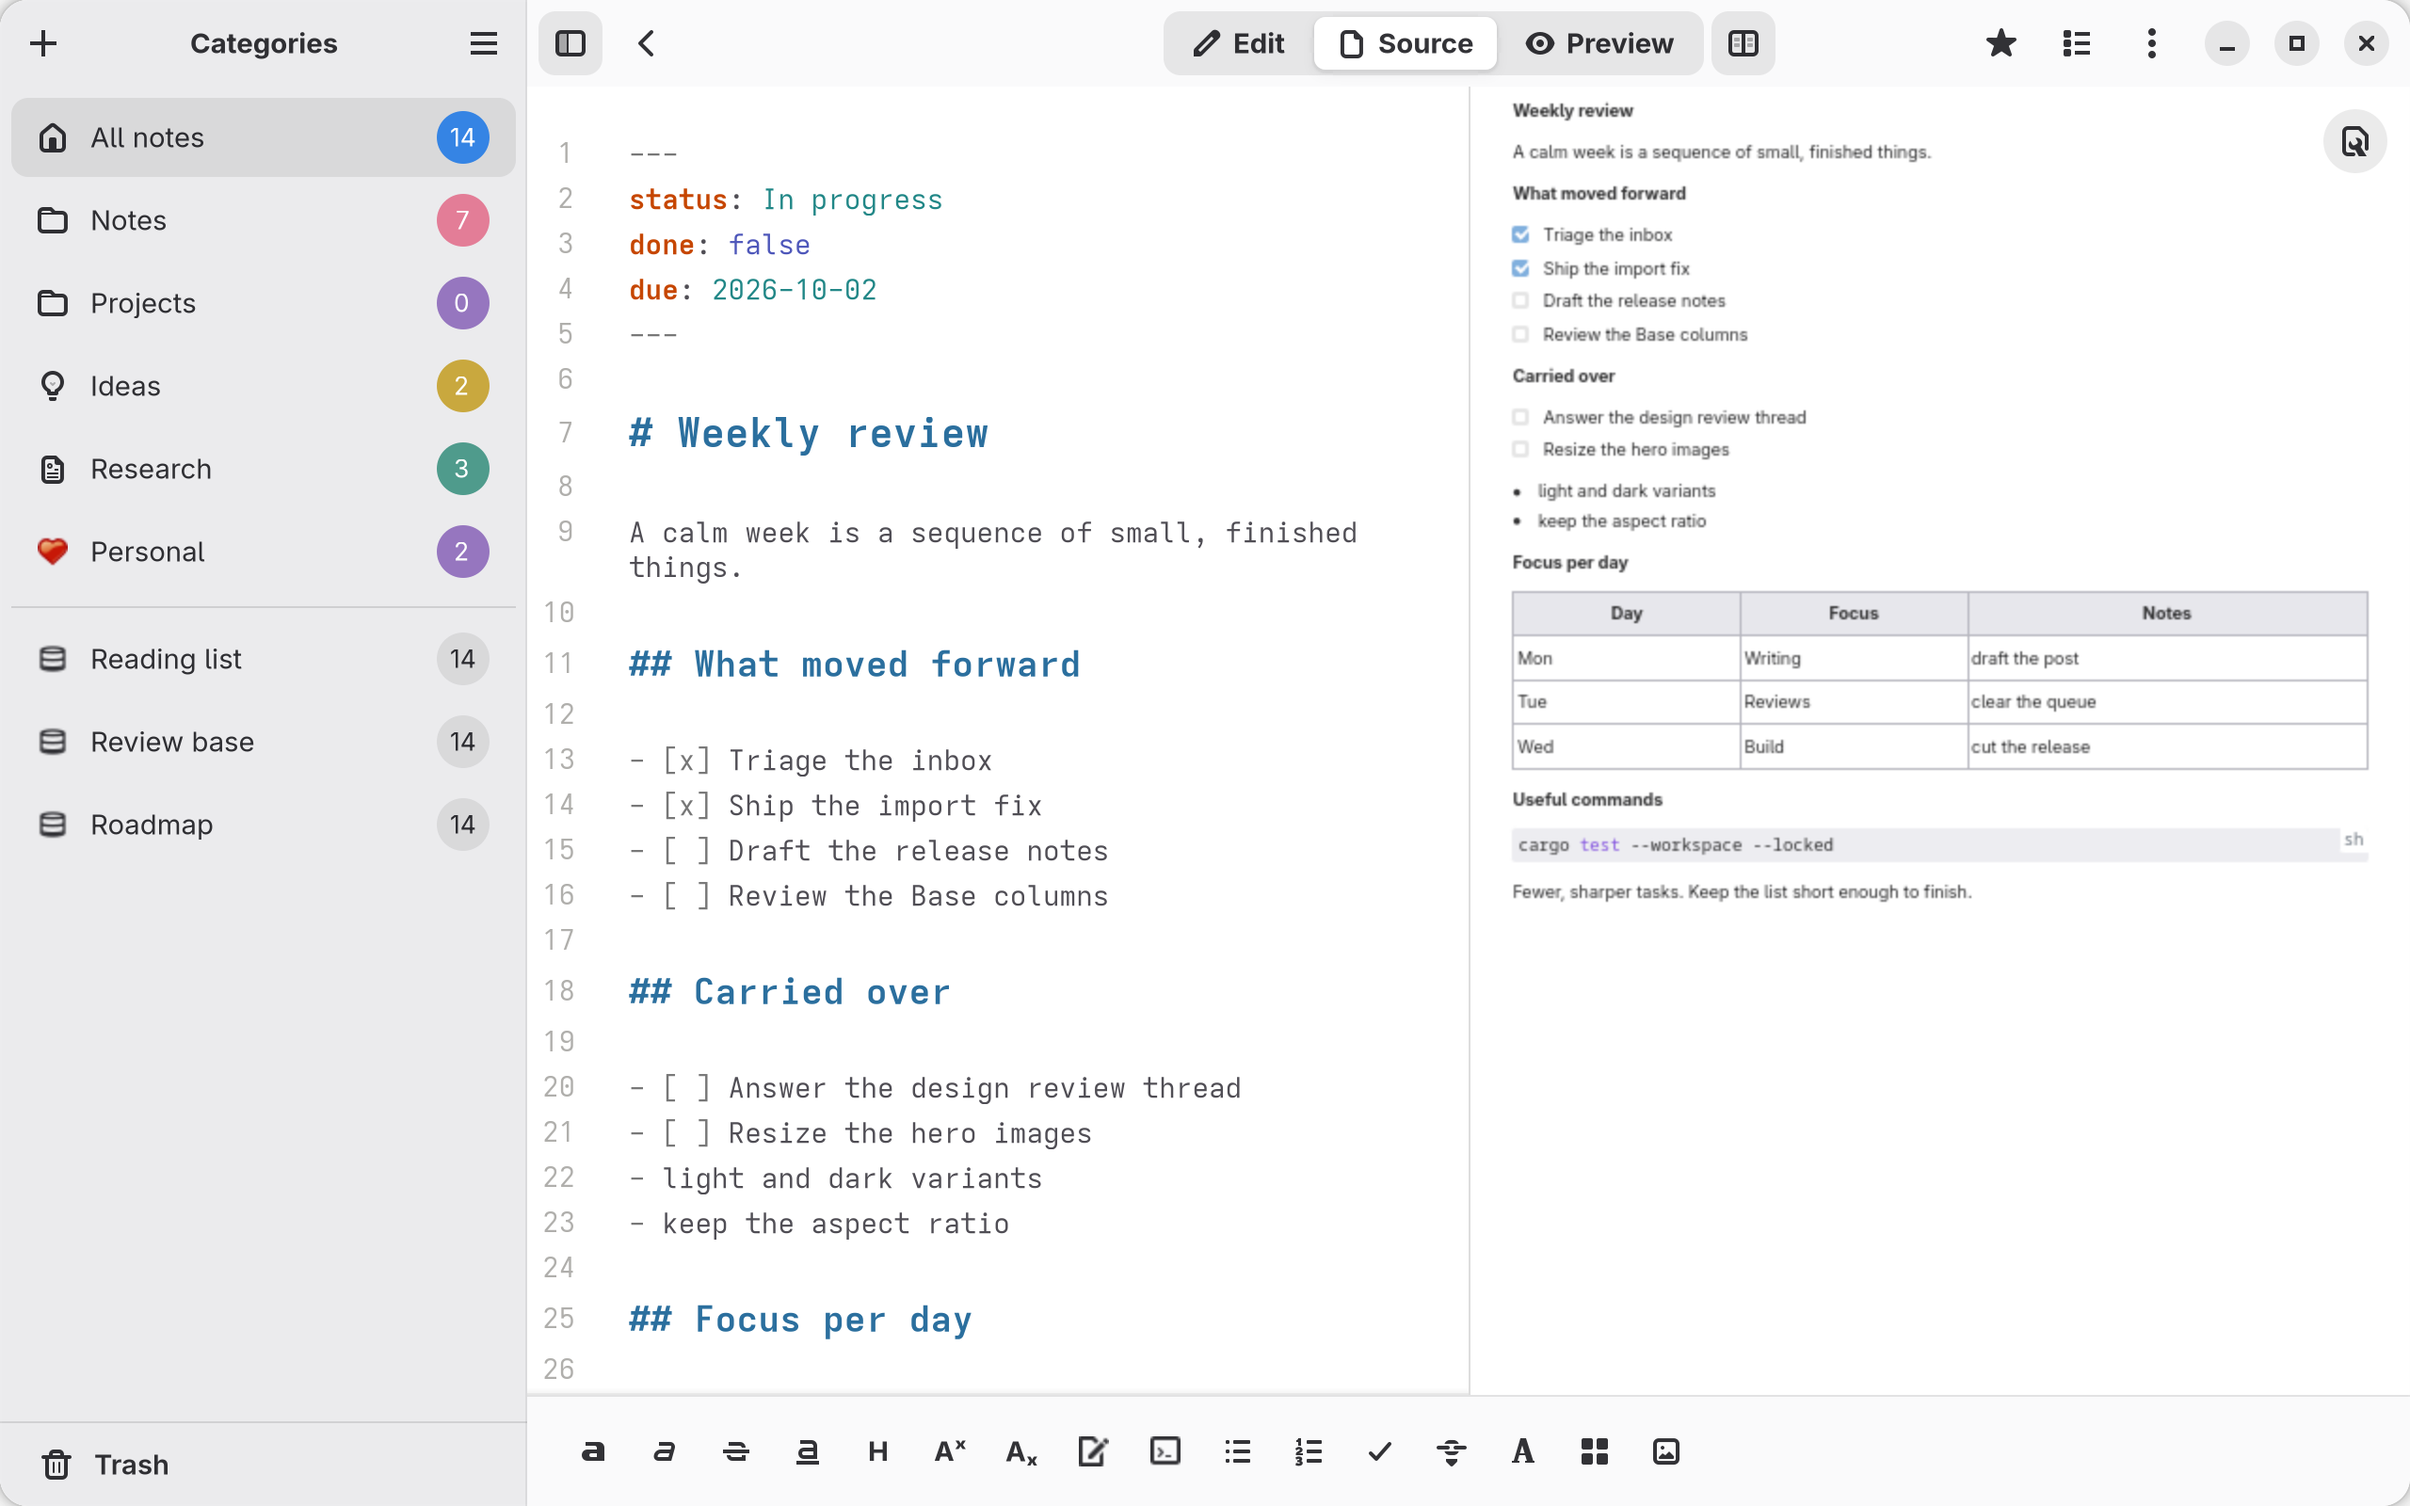
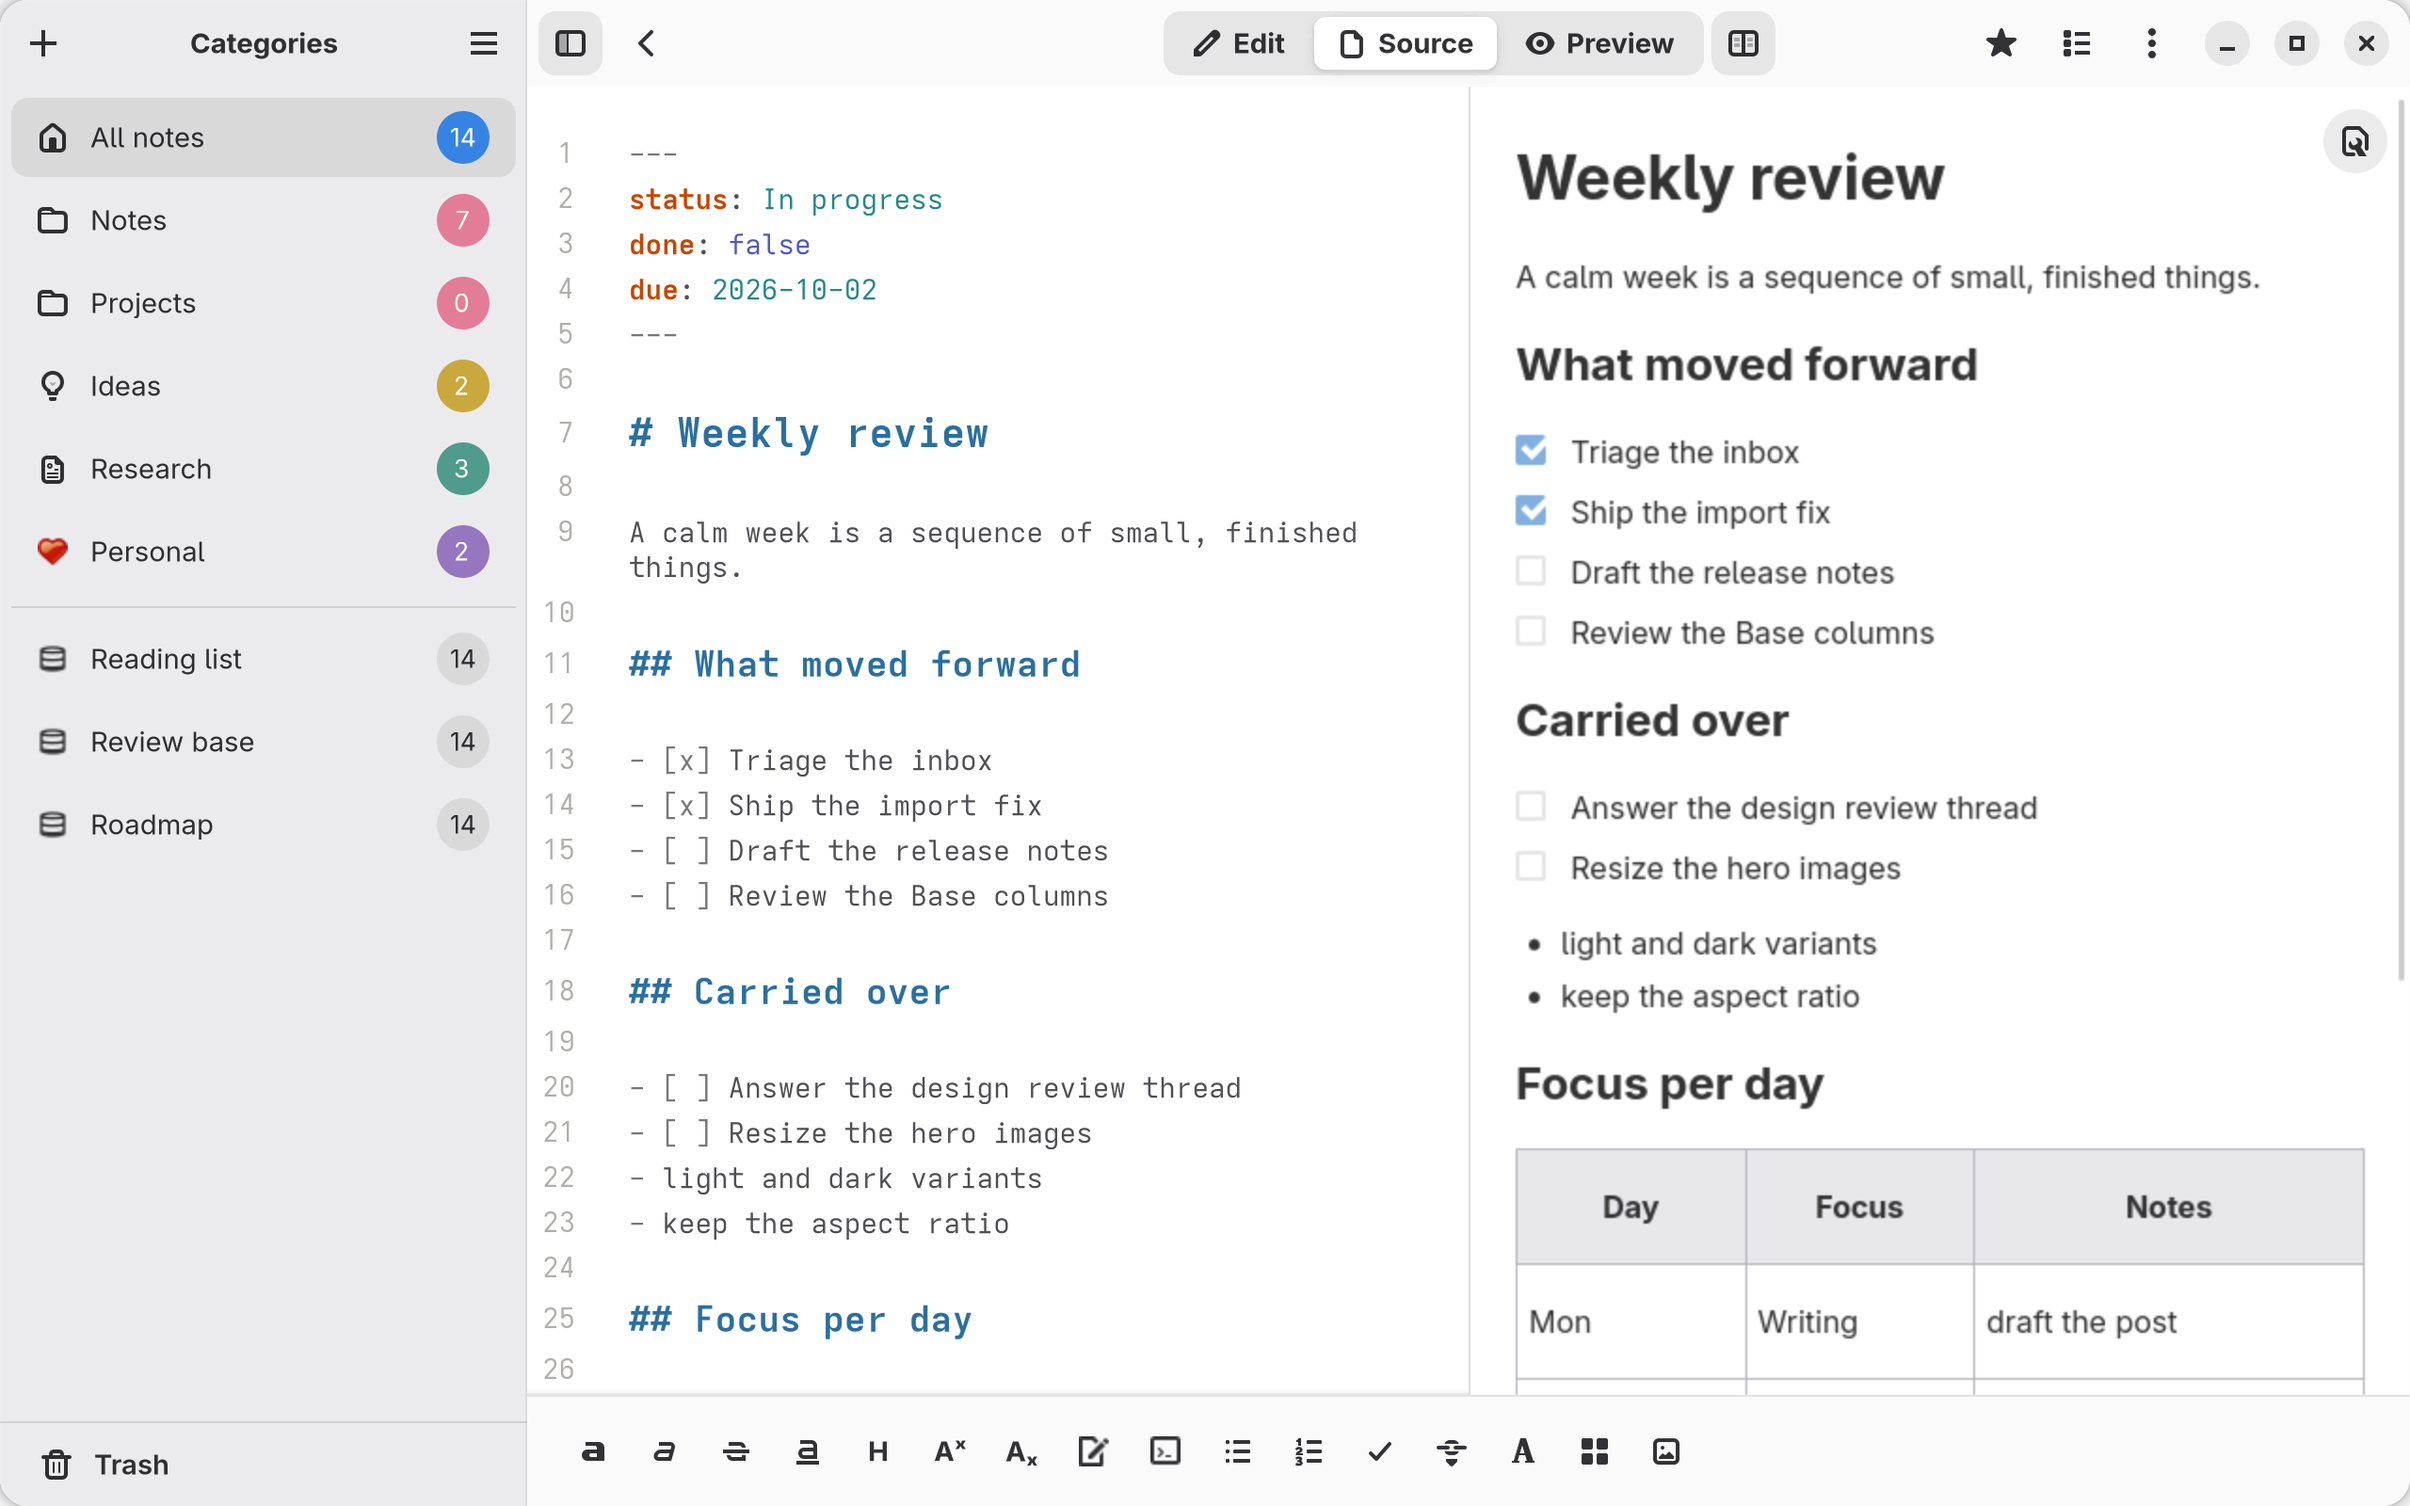
fix(gtk): render the screenshots at the right scale and settle the focus wait
- Pin gtk-xft-dpi to 96 DPI in the screenshot capture. The headless compositor
  reports no physical size, so GTK derived a tiny DPI (xft-dpi is -1) and WebKit
  rendered the embedded editor at roughly a quarter size. Only visible now that
  the capture runs after the rest of the suite has mapped a real surface.
- Wait for the rich editor to release window focus after switching to source,
  and give the WebKit script wait a longer bound, so a loaded runner cannot turn
  timing into a failure.

diff --git a/apps/carver-gtk/src/tests/ui/screenshots.rs b/apps/carver-gtk/src/tests/ui/screenshots.rs
@@ -256,6 +256,13 @@ pub(super) fn capture_docs_screenshots() -> TestResult {
     };
     std::fs::create_dir_all(&directory)?;
 
+    // The headless compositor reports no physical size, so GTK derives a tiny
+    // DPI (xft-dpi is -1) and WebKit renders the embedded editor at a fraction
+    // of its size. Pin the standard 96 DPI before the window is built.
+    if let Some(settings) = gtk::Settings::default() {
+        settings.set_property("gtk-xft-dpi", 96 * 1024);
+    }
+
     let showcase = std::cell::RefCell::new(None);
     let fixture = window_fixture_seeded(
         "io.github.josbeir.Carver.Screenshots",
@@ -264,8 +271,10 @@ pub(super) fn capture_docs_screenshots() -> TestResult {
             Ok(())
         },
         // Screenshots should show the application's default document font, not
-        // the deterministic font the interaction suite configures.
-        |_| {},
+        // the deterministic font the interaction suite configures. Pinning the
+        // desktop default keeps the capture identical whatever the machine's
+        // font settings are.
+        |config| config.editor.document_font = Some("Adwaita Sans 12".to_owned()),
     )?;
     let showcase = showcase.into_inner().ok_or("showcase")?;
     capture_scenes(&fixture, &directory, &showcase)

diff --git a/apps/carver-gtk/src/tests/ui/document_sidebar.rs b/apps/carver-gtk/src/tests/ui/document_sidebar.rs
@@ -529,9 +529,13 @@ fn assert_rich_focus_should_not_escape_mode_switch(
         widget_as::<adw::ViewStack>(root, "editor-mode-stack").ok_or("editor mode stack")?;
     editor_stack.set_visible_child_name("source");
     // Drain the queued navigation first: its native completion must not hand focus
-    // back to the now-hidden rich editor.
+    // back to the now-hidden rich editor. Give the switch a moment to settle, since
+    // the editor only drops focus once the web surface processes the change.
     assert_web_script_should_be_true(&rich, "true");
-    assert!(!widget_is_window_focus(rich.upcast_ref()));
+    assert!(
+        run_main_context_until(|| !widget_is_window_focus(rich.upcast_ref())),
+        "rich editor should release window focus after switching to source"
+    );
     assert!(run_main_context_until(|| source.is_mapped()));
     source.grab_focus();
     if let Some(window) = source.root() {

diff --git a/apps/carver-gtk/src/tests/ui/window.rs b/apps/carver-gtk/src/tests/ui/window.rs
@@ -303,8 +303,10 @@ pub(crate) fn activate_browser_note(list: &gtk::ListView, note_id: carver_sdk::N
 pub(crate) fn assert_web_script_should_be_true(view: &webkit6::WebView, script: &str) {
     let result = Rc::new(Cell::new(false));
     let pending = Rc::new(Cell::new(false));
+    // Generous bound: the web surface can be slow to answer on a loaded CI runner,
+    // where a shorter wait shows up as a flaky failure rather than a real one.
     assert!(
-        run_main_context_until(|| {
+        run_main_context_until_for(std::time::Duration::from_secs(15), || {
             if result.get() {
                 return true;
             }
